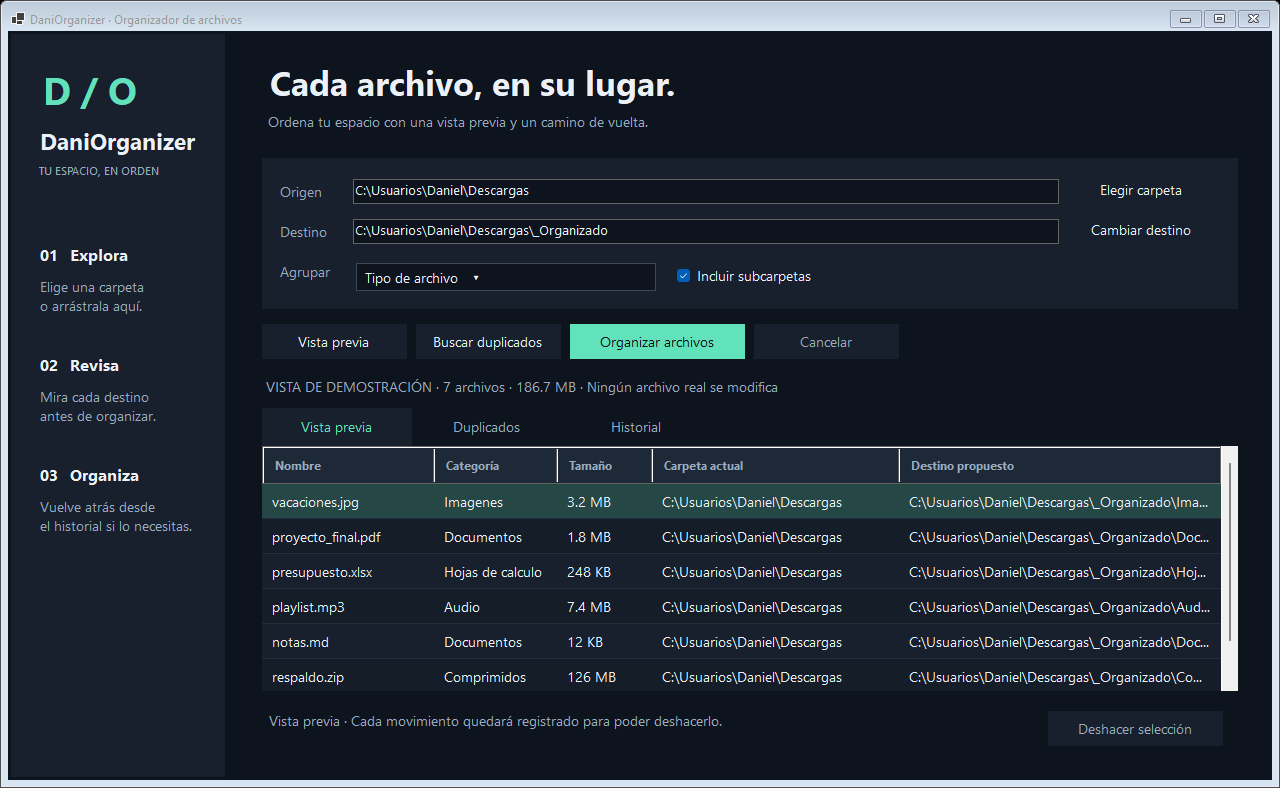
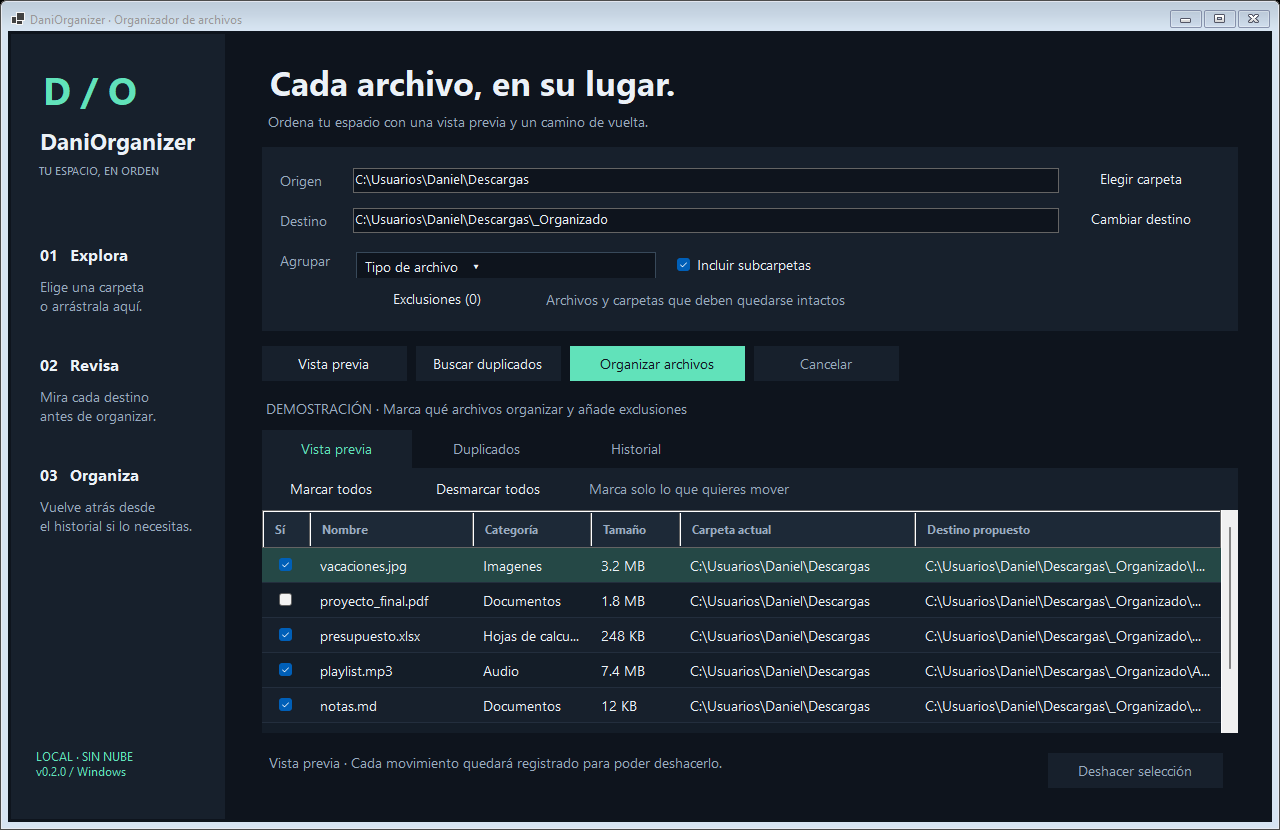
feat: choose files to organize and persist file and folder exclusions

diff --git a/Desktop/MainForm.cs b/Desktop/MainForm.cs
@@ -11,6 +11,10 @@ public sealed class MainForm : Form
     private readonly CheckBox recursive = new() { Text = "Incluir subcarpetas", AutoSize = true, Checked = true };
     private readonly Button previewButton = Button("Vista previa"), duplicateButton = Button("Buscar duplicados"), applyButton = Button("Organizar archivos", true), cancelButton = Button("Cancelar"), undoButton = Button("Deshacer selección");
     private readonly Button sourceButton = Button("Elegir carpeta"), destinationButton = Button("Cambiar destino");
+    private readonly Button exclusionsButton = Button("Exclusiones (0)"), selectAllButton = Button("Marcar todos"), clearSelectionButton = Button("Desmarcar todos");
+    private readonly List<string> excludedPaths = new();
+    private readonly string exclusionsFile;
+    private bool fillingPlan;
     private readonly Label status = new(), summary = new();
     private readonly DataGridView planGrid = Grid(), duplicateGrid = Grid(), historyGrid = Grid();
     private readonly WorkspaceTabs tabs = new();
@@ -27,6 +31,13 @@ public sealed class MainForm : Form
         this.demo = demo;
         this.testMode = testMode;
         this.journalDirectory = journalDirectory ?? Organizer.DefaultJournal;
+        exclusionsFile = Path.Combine(Path.GetDirectoryName(this.journalDirectory)!, "exclusions.json");
+        if (!demo)
+        {
+            try { excludedPaths.AddRange(ExclusionStore.Load(exclusionsFile)); }
+            catch (Exception ex) when (ex is IOException or UnauthorizedAccessException or System.Text.Json.JsonException)
+            { MessageBox.Show("No se pudieron cargar las exclusiones. Revísalas antes de organizar.\n" + ex.Message, "DaniOrganizer"); }
+        }
         Text = "DaniOrganizer · Organizador de archivos";
         Size = new(1280, 830); MinimumSize = new(1080, 720); StartPosition = FormStartPosition.CenterScreen;
         BackColor = Background; ForeColor = Ink; Font = new("Segoe UI", 10); AutoScaleMode = AutoScaleMode.Dpi;
@@ -35,7 +46,7 @@ public sealed class MainForm : Form
         layout.Controls.Add(Sidebar(), 0, 0);
         var main = new TableLayoutPanel { Dock = DockStyle.Fill, Padding = new(28, 22, 28, 18), ColumnCount = 1, RowCount = 6 };
         main.ColumnStyles.Add(new(SizeType.Percent, 100));
-        foreach (int height in new[] { 99, 157, 55, 38 }) main.RowStyles.Add(new(SizeType.Absolute, height));
+        foreach (int height in new[] { 88, 190, 55, 38 }) main.RowStyles.Add(new(SizeType.Absolute, height));
         main.RowStyles.Add(new(SizeType.Percent, 100)); main.RowStyles.Add(new(SizeType.Absolute, 65)); layout.Controls.Add(main, 1, 0);
         var heading = new Panel { Dock = DockStyle.Fill };
         heading.Controls.Add(Label("Cada archivo, en su lugar.", 25, Ink, new(0, 0), true));
@@ -47,21 +58,33 @@ public sealed class MainForm : Form
         summary.Dock = DockStyle.Fill; summary.TextAlign = ContentAlignment.MiddleLeft; summary.ForeColor = Muted;
         summary.Text = "Elige una carpeta para empezar. La vista previa no mueve archivos."; main.Controls.Add(summary, 0, 3);
         ConfigureGrid(planGrid, ("Nombre", 160), ("Categoría", 115), ("Tamaño", 88), ("Carpeta actual", 230), ("Destino propuesto", 300));
+        foreach (DataGridViewColumn column in planGrid.Columns) column.ReadOnly = true;
+        planGrid.ReadOnly = false;
+        planGrid.Columns.Insert(0, new DataGridViewCheckBoxColumn { Name = "Include", HeaderText = "Sí", Width = 48, MinimumWidth = 48, AutoSizeMode = DataGridViewAutoSizeColumnMode.None, ReadOnly = false, SortMode = DataGridViewColumnSortMode.NotSortable });
+        planGrid.CurrentCellDirtyStateChanged += (_, _) => { if (planGrid.IsCurrentCellDirty) planGrid.CommitEdit(DataGridViewDataErrorContexts.Commit); };
+        planGrid.CellValueChanged += (_, e) => { if (e.ColumnIndex == 0 && !fillingPlan) UpdateSelection(); };
         ConfigureGrid(duplicateGrid, ("Grupo", 65), ("Archivo", 180), ("Tamaño", 100), ("Ubicación", 500));
         ConfigureGrid(historyGrid, ("Fecha", 160), ("Movimientos pendientes de deshacer", 210), ("Estado", 210));
         tabs.Dock = DockStyle.Fill;
-        AddTab("Vista previa", planGrid); AddTab("Duplicados", duplicateGrid); AddTab("Historial", historyGrid); main.Controls.Add(tabs, 0, 4);
+        var planPage = new Panel { Dock = DockStyle.Fill };
+        var selectionBar = new FlowLayoutPanel { Dock = DockStyle.Top, Height = 42, Padding = new(0, 3, 0, 0) };
+        selectAllButton.Width = 140; clearSelectionButton.Width = 155;
+        selectionBar.Controls.AddRange(new Control[] { selectAllButton, clearSelectionButton, new Label { Text = "Marca solo lo que quieres mover", AutoSize = true, ForeColor = Muted, Margin = new(10, 8, 0, 0) } });
+        planPage.Controls.Add(planGrid); planPage.Controls.Add(selectionBar);
+        AddTab("Vista previa", planPage); AddTab("Duplicados", duplicateGrid); AddTab("Historial", historyGrid); main.Controls.Add(tabs, 0, 4);
         var footer = new TableLayoutPanel { Dock = DockStyle.Fill, ColumnCount = 2, RowCount = 1, Padding = new(0, 14, 0, 0) };
         footer.ColumnStyles.Add(new(SizeType.Percent, 100)); footer.ColumnStyles.Add(new(SizeType.Absolute, 190));
         status.Dock = DockStyle.Fill; status.ForeColor = Muted; status.Text = "Listo · Todo se procesa en tu equipo.";
         footer.Controls.Add(status, 0, 0); footer.Controls.Add(undoButton, 1, 0); main.Controls.Add(footer, 0, 5);
         sourceButton.Click += (_, _) => PickSource(); destinationButton.Click += (_, _) => PickDestination();
+        exclusionsButton.Click += (_, _) => EditExclusions();
+        selectAllButton.Click += (_, _) => SetSelection(true); clearSelectionButton.Click += (_, _) => SetSelection(false);
         source.TextChanged += (_, _) => InvalidatePlan(); destination.TextChanged += (_, _) => InvalidatePlan();
         grouping.SelectedIndexChanged += (_, _) => InvalidatePlan(); recursive.CheckedChanged += (_, _) => InvalidatePlan();
         previewButton.Click += async (_, _) => await Preview(); duplicateButton.Click += async (_, _) => await FindDuplicates();
         applyButton.Click += async (_, _) => await Apply(); undoButton.Click += async (_, _) => await Undo();
         cancelButton.Click += (_, _) => { cancellation?.Cancel(); status.Text = "Cancelando… se conservará el registro de movimientos completados."; };
-        planGrid.CellDoubleClick += (_, e) => { if (e.RowIndex >= 0 && plan != null) Reveal(plan.Moves[e.RowIndex].Source); };
+        planGrid.CellDoubleClick += (_, e) => { if (e.RowIndex >= 0 && e.ColumnIndex != 0 && planGrid.Rows[e.RowIndex].Tag is PlannedMove move) Reveal(move.Source); };
         duplicateGrid.CellDoubleClick += (_, e) => { if (e.RowIndex >= 0 && duplicateGrid.Rows[e.RowIndex].Tag is string path) Reveal(path); };
         historyGrid.SelectionChanged += (_, _) => UpdateButtons();
         AllowDrop = true; DragEnter += (_, e) => { if (!busy && e.Data?.GetData(DataFormats.FileDrop) is string[] paths && paths.Length == 1 && Directory.Exists(paths[0])) e.Effect = DragDropEffects.Copy; };
@@ -83,14 +106,14 @@ public sealed class MainForm : Form
         side.Controls.Add(Label("Mira cada destino\nantes de organizar.", 10, Muted, new(25, 353)));
         side.Controls.Add(Label("03   Organiza", 12, Ink, new(25, 430), true));
         side.Controls.Add(Label("Vuelve atrás desde\nel historial si lo necesitas.", 10, Muted, new(25, 463)));
-        var badge = Label("LOCAL · SIN NUBE\nv0.1.0 / Windows", 9, Accent, new(25, 650)); badge.Anchor = AnchorStyles.Bottom | AnchorStyles.Left; side.Controls.Add(badge);
+        var badge = Label("LOCAL · SIN NUBE\nv0.2.0 / Windows", 9, Accent, new(25, 650)); badge.AutoSize = false; badge.Height = 48; badge.Dock = DockStyle.Bottom; side.Controls.Add(badge);
         return side;
     }
     private Control FolderCard()
     {
-        var card = new TableLayoutPanel { Dock = DockStyle.Fill, BackColor = Surface, Padding = new(14), ColumnCount = 3, RowCount = 3 };
+        var card = new TableLayoutPanel { Dock = DockStyle.Fill, BackColor = Surface, Padding = new(14), ColumnCount = 3, RowCount = 4 };
         card.ColumnStyles.Add(new(SizeType.Absolute, 74)); card.ColumnStyles.Add(new(SizeType.Percent, 100)); card.ColumnStyles.Add(new(SizeType.Absolute, 155));
-        card.RowStyles.Add(new(SizeType.Absolute, 40)); card.RowStyles.Add(new(SizeType.Absolute, 40)); card.RowStyles.Add(new(SizeType.Percent, 100));
+        card.RowStyles.Add(new(SizeType.Absolute, 40)); card.RowStyles.Add(new(SizeType.Absolute, 40)); card.RowStyles.Add(new(SizeType.Absolute, 40)); card.RowStyles.Add(new(SizeType.Percent, 100));
         foreach (var box in new[] { source, destination }) { box.Dock = DockStyle.Fill; box.BackColor = Background; box.ForeColor = Ink; box.BorderStyle = BorderStyle.FixedSingle; box.Margin = new(3, 7, 10, 3); }
         source.PlaceholderText = "Selecciona o arrastra una carpeta…"; destination.PlaceholderText = "Se propone _Organizado dentro del origen";
         card.Controls.Add(new Label { Text = "Origen", AutoSize = true, Margin = new(0, 10, 0, 0), ForeColor = Muted }, 0, 0); card.Controls.Add(source, 1, 0); card.Controls.Add(sourceButton, 2, 0);
@@ -99,6 +122,10 @@ public sealed class MainForm : Form
         var choices = new FlowLayoutPanel { Dock = DockStyle.Fill, WrapContents = false, Padding = new(0, 5, 0, 0) };
         grouping.Width = 300; grouping.Height = 28;
         recursive.Margin = new(18, 5, 0, 0); choices.Controls.AddRange(new Control[] { grouping, recursive }); card.Controls.Add(choices, 1, 2); card.SetColumnSpan(choices, 2);
+        exclusionsButton.Width = 170; exclusionsButton.Height = 30; exclusionsButton.Text = $"Exclusiones ({excludedPaths.Count})";
+        var exclusionsRow = new FlowLayoutPanel { Dock = DockStyle.Fill, WrapContents = false };
+        exclusionsRow.Controls.Add(exclusionsButton); exclusionsRow.Controls.Add(new Label { Text = "Archivos y carpetas que deben quedarse intactos", AutoSize = true, ForeColor = Muted, Margin = new(10, 6, 0, 0) });
+        card.Controls.Add(exclusionsRow, 1, 3); card.SetColumnSpan(exclusionsRow, 2);
         return card;
     }
     private static Label Label(string text, float size, Color color, Point location, bool bold = false) => new() { Text = text, AutoSize = true, Location = location, ForeColor = color, Font = new("Segoe UI", size, bold ? FontStyle.Bold : FontStyle.Regular) };
@@ -127,13 +154,42 @@ public sealed class MainForm : Form
     private Options ReadOptions()
     {
         if (string.IsNullOrWhiteSpace(source.Text) || string.IsNullOrWhiteSpace(destination.Text)) throw new ArgumentException("Selecciona el origen y el destino.");
-        return new(source.Text.Trim(), destination.Text.Trim(), (Grouping)grouping.SelectedIndex, recursive.Checked);
+        return new(source.Text.Trim(), destination.Text.Trim(), (Grouping)grouping.SelectedIndex, recursive.Checked, excludedPaths.ToArray());
     }
-    private void InvalidatePlan() { plan = null; planGrid.Rows.Clear(); duplicateGrid.Rows.Clear(); summary.Text = "Genera una vista previa para revisar cada movimiento."; UpdateButtons(); }
+    private void EditExclusions()
+    {
+        using var dialog = new ExclusionDialog(excludedPaths);
+        if (dialog.ShowDialog(this) != DialogResult.OK) return;
+        try { SaveExclusions(dialog.ExcludedPaths); }
+        catch (Exception ex) when (ex is IOException or UnauthorizedAccessException) { MessageBox.Show(this, "No se pudieron guardar las exclusiones. No se cambiaron las reglas.\n" + ex.Message, "DaniOrganizer"); }
+    }
+    private void SaveExclusions(IEnumerable<string> paths)
+    {
+        var changed = paths.ToArray(); ExclusionStore.Save(exclusionsFile, changed);
+        excludedPaths.Clear(); excludedPaths.AddRange(changed); exclusionsButton.Text = $"Exclusiones ({excludedPaths.Count})";
+        InvalidatePlan(); status.Text = "Exclusiones guardadas. Genera una nueva vista previa.";
+    }
+    private IEnumerable<PlannedMove> CheckedMoves() => planGrid.Rows.Cast<DataGridViewRow>()
+        .Where(row => row.Cells[0].Value is true && row.Tag is PlannedMove).Select(row => (PlannedMove)row.Tag!);
+    private void SetSelection(bool selected)
+    {
+        fillingPlan = true;
+        foreach (DataGridViewRow row in planGrid.Rows) row.Cells[0].Value = selected;
+        fillingPlan = false; UpdateSelection();
+    }
+    private void UpdateSelection()
+    {
+        if (demo || plan == null) return;
+        var selected = CheckedMoves().ToArray();
+        summary.Text = $"{selected.Length:N0} de {plan.Moves.Count:N0} seleccionados · {SizeText(selected.Sum(move => move.Length))} · {plan.Warnings.Count} avisos";
+        applyButton.Text = $"Organizar ({selected.Length:N0})"; UpdateButtons();
+    }
+    private void InvalidatePlan() { plan = null; planGrid.Rows.Clear(); duplicateGrid.Rows.Clear(); applyButton.Text = "Organizar archivos"; summary.Text = "Genera una vista previa para revisar cada movimiento."; UpdateButtons(); }
     private void UpdateButtons()
     {
-        foreach (var control in new Control[] { source, destination, grouping, recursive, sourceButton, destinationButton, previewButton, duplicateButton }) control.Enabled = !busy;
-        applyButton.Enabled = !busy && (demo || plan?.Moves.Count > 0); cancelButton.Enabled = busy;
+        foreach (var control in new Control[] { source, destination, grouping, recursive, sourceButton, destinationButton, previewButton, duplicateButton, exclusionsButton }) control.Enabled = !busy;
+        selectAllButton.Enabled = clearSelectionButton.Enabled = !busy && (demo || plan?.Moves.Count > 0); planGrid.Enabled = !busy;
+        applyButton.Enabled = !busy && (demo || plan != null && CheckedMoves().Any()); cancelButton.Enabled = busy;
         undoButton.Enabled = !busy && !demo && historyGrid.SelectedRows.Count > 0 && historyGrid.SelectedRows[0].Tag is Operation op && op.Entries.Any(entry => entry.State != "Undone");
     }
     private async Task Work(string message, Func<CancellationToken, Task> action)
@@ -149,8 +205,9 @@ public sealed class MainForm : Form
         await Work("Analizando archivos…", async token =>
         {
             var options = ReadOptions(); plan = await Task.Run(() => Organizer.Preview(options, token), token);
-            planGrid.Rows.Clear(); foreach (var move in plan.Moves) planGrid.Rows.Add(Path.GetFileName(move.Source), Organizer.Category(Path.GetExtension(move.Source)), SizeText(move.Length), Path.GetDirectoryName(move.Source), move.Destination);
-            summary.Text = $"{plan.Moves.Count:N0} archivos · {SizeText(plan.Moves.Sum(move => move.Length))} · {plan.Warnings.Count} avisos";
+            fillingPlan = true; planGrid.Rows.Clear();
+            foreach (var move in plan.Moves) { int row = planGrid.Rows.Add(true, Path.GetFileName(move.Source), Organizer.Category(Path.GetExtension(move.Source)), SizeText(move.Length), Path.GetDirectoryName(move.Source), move.Destination); planGrid.Rows[row].Tag = move; }
+            fillingPlan = false; UpdateSelection();
             status.Text = "Vista previa lista. Revisa los destinos antes de organizar."; tabs.SelectedIndex = 0; ShowWarnings(plan.Warnings);
         });
     }
@@ -169,7 +226,9 @@ public sealed class MainForm : Form
     private async Task Apply(bool confirm = true)
     {
         if (plan == null) return;
-        var selectedPlan = plan;
+        planGrid.EndEdit();
+        var selectedPlan = Organizer.Select(plan, CheckedMoves().Select(move => move.Source));
+        if (selectedPlan.Moves.Count == 0) return;
         if (confirm && MessageBox.Show(this, $"Se moverán {selectedPlan.Moves.Count:N0} archivos al destino mostrado.\n\nPuedes deshacer desde el historial. ¿Organizar ahora?", "Aplicar vista previa", MessageBoxButtons.YesNo, MessageBoxIcon.Question) != DialogResult.Yes) return;
         await Work("Organizando…", async token =>
         {
@@ -208,8 +267,8 @@ public sealed class MainForm : Form
     {
         source.Text = @"C:\Usuarios\Daniel\Descargas"; destination.Text = @"C:\Usuarios\Daniel\Descargas\_Organizado";
         foreach (var item in new[] { ("vacaciones.jpg", "Imagenes", "3.2 MB"), ("proyecto_final.pdf", "Documentos", "1.8 MB"), ("presupuesto.xlsx", "Hojas de calculo", "248 KB"), ("playlist.mp3", "Audio", "7.4 MB"), ("notas.md", "Documentos", "12 KB"), ("respaldo.zip", "Comprimidos", "126 MB"), ("demo.mp4", "Videos", "48 MB") })
-            planGrid.Rows.Add(item.Item1, item.Item2, item.Item3, source.Text, Path.Combine(destination.Text, item.Item2, item.Item1));
-        summary.Text = "VISTA DE DEMOSTRACIÓN · 7 archivos · 186.7 MB · Ningún archivo real se modifica";
+            planGrid.Rows.Add(item.Item1 is not ("respaldo.zip" or "proyecto_final.pdf"), item.Item1, item.Item2, item.Item3, source.Text, Path.Combine(destination.Text, item.Item2, item.Item1));
+        summary.Text = "DEMOSTRACIÓN · Marca qué archivos organizar y añade exclusiones";
         status.Text = "Vista previa · Cada movimiento quedará registrado para poder deshacerlo.";
     }
     internal async Task Smoke(string directory)
@@ -226,6 +285,23 @@ public sealed class MainForm : Form
         if (File.Exists(Path.Combine(directory, "a.txt")) || historyGrid.Rows.Count != 1 || !undoButton.Enabled) throw new Exception("La organización no actualiza el historial.");
         await Undo(confirm: false);
         if (File.ReadAllText(Path.Combine(directory, "a.txt")) != "same" || File.ReadAllText(Path.Combine(directory, "b.txt")) != "same") throw new Exception("La interfaz no deshace correctamente.");
+        string protectedFolder = Path.Combine(directory, "Privado"); Directory.CreateDirectory(protectedFolder);
+        File.WriteAllText(Path.Combine(protectedFolder, "secreto.txt"), "intacto");
+        SaveExclusions(new[] { Path.Combine(directory, "b.txt"), protectedFolder });
+        if (plan != null || applyButton.Enabled) throw new Exception("Las exclusiones no invalidan el plan.");
+        using (var reopened = new MainForm(testMode: true, journalDirectory: journalDirectory))
+            if (reopened.excludedPaths.Count != 2) throw new Exception("Las exclusiones no se conservan al reiniciar.");
+        await Preview(); if (planGrid.Rows.Count != 2) throw new Exception("Aparecen archivos excluidos en la vista previa.");
+        await FindDuplicates(); if (duplicateGrid.Rows.Count != 0) throw new Exception("Se analizaron duplicados excluidos.");
+        SetSelection(false); if (applyButton.Enabled) throw new Exception("Se puede organizar sin seleccionar archivos.");
+        foreach (DataGridViewRow row in planGrid.Rows) if (row.Tag is PlannedMove move && Path.GetFileName(move.Source) == "a.txt") row.Cells[0].Value = true;
+        if (CheckedMoves().Count() != 1 || !applyButton.Enabled) throw new Exception("Las casillas no actualizan la selección.");
+        File.WriteAllText(Path.Combine(directory, "foto.png"), "cambio sin seleccionar");
+        await Apply(confirm: false);
+        if (File.Exists(Path.Combine(directory, "a.txt")) || File.ReadAllText(Path.Combine(directory, "b.txt")) != "same" || File.ReadAllText(Path.Combine(directory, "foto.png")) != "cambio sin seleccionar" || File.ReadAllText(Path.Combine(protectedFolder, "secreto.txt")) != "intacto")
+            throw new Exception("La organización selectiva modificó archivos desmarcados o excluidos.");
+        await Undo(confirm: false);
+        if (File.ReadAllText(Path.Combine(directory, "a.txt")) != "same") throw new Exception("No se pudo deshacer la selección.");
     }
 }
 

diff --git a/Desktop/ExclusionDialog.cs b/Desktop/ExclusionDialog.cs
@@ -1,0 +1,27 @@
+namespace DaniOrganizer;
+
+internal sealed class ExclusionDialog : Form
+{
+    private readonly ListBox paths = new() { Dock = DockStyle.Fill, SelectionMode = SelectionMode.MultiExtended, HorizontalScrollbar = true, BackColor = Color.FromArgb(23, 32, 44), ForeColor = Color.WhiteSmoke, BorderStyle = BorderStyle.None };
+    public IReadOnlyList<string> ExcludedPaths => paths.Items.Cast<string>().ToArray();
+    public ExclusionDialog(IEnumerable<string> existing)
+    {
+        Text = "Archivos y carpetas que NO se organizarán"; Size = new(850, 490); MinimumSize = new(700, 400); StartPosition = FormStartPosition.CenterParent;
+        BackColor = Color.FromArgb(14, 20, 29); ForeColor = Color.WhiteSmoke; Font = new("Segoe UI", 10);
+        var layout = new TableLayoutPanel { Dock = DockStyle.Fill, Padding = new(18), ColumnCount = 1, RowCount = 4 };
+        layout.RowStyles.Add(new(SizeType.Absolute, 55)); layout.RowStyles.Add(new(SizeType.Absolute, 45)); layout.RowStyles.Add(new(SizeType.Percent, 100)); layout.RowStyles.Add(new(SizeType.Absolute, 52)); Controls.Add(layout);
+        layout.Controls.Add(new Label { Text = "Añade archivos o carpetas que quieras dejar intactos.\nExcluir una carpeta también excluye todos sus archivos y subcarpetas.", Dock = DockStyle.Fill }, 0, 0);
+        var toolbar = new FlowLayoutPanel { Dock = DockStyle.Fill, WrapContents = false };
+        var files = MakeButton("Añadir archivos…"); var folder = MakeButton("Añadir carpeta…"); var remove = MakeButton("Quitar de la lista");
+        toolbar.Controls.AddRange(new Control[] { files, folder, remove }); layout.Controls.Add(toolbar, 0, 1); layout.Controls.Add(paths, 0, 2);
+        var footer = new FlowLayoutPanel { Dock = DockStyle.Fill, FlowDirection = FlowDirection.RightToLeft, Padding = new(0, 12, 0, 0) };
+        var save = MakeButton("Guardar exclusiones"); var cancel = MakeButton("Cancelar"); save.DialogResult = DialogResult.OK; cancel.DialogResult = DialogResult.Cancel;
+        footer.Controls.AddRange(new Control[] { save, cancel }); layout.Controls.Add(footer, 0, 3); AcceptButton = save; CancelButton = cancel;
+        foreach (string path in existing) Add(path);
+        files.Click += (_, _) => { using var picker = new OpenFileDialog { Multiselect = true, Title = "Elige los archivos que no quieres organizar", Filter = "Todos los archivos|*.*" }; if (picker.ShowDialog(this) == DialogResult.OK) foreach (string path in picker.FileNames) Add(path); };
+        folder.Click += (_, _) => { using var picker = new FolderBrowserDialog { Description = "Elige una carpeta que no quieres organizar", UseDescriptionForTitle = true }; if (picker.ShowDialog(this) == DialogResult.OK) Add(picker.SelectedPath); };
+        remove.Click += (_, _) => { foreach (var item in paths.SelectedItems.Cast<string>().ToArray()) paths.Items.Remove(item); };
+    }
+    private void Add(string path) { path = Path.GetFullPath(path); if (!paths.Items.Cast<string>().Contains(path, StringComparer.OrdinalIgnoreCase)) paths.Items.Add(path); }
+    private static Button MakeButton(string text) { var button = new Button { Text = text, Width = 175, Height = 32, FlatStyle = FlatStyle.Flat, BackColor = Color.FromArgb(29, 41, 55), ForeColor = Color.WhiteSmoke }; button.FlatAppearance.BorderSize = 0; return button; }
+}

diff --git a/Core/Organizer.cs b/Core/Organizer.cs
@@ -4,7 +4,7 @@ using System.Text.Json;
 namespace DaniOrganizer.Core;
 
 public enum Grouping { Type, Date, TypeAndDate }
-public record Options(string Source, string Destination, Grouping Grouping, bool Recursive);
+public record Options(string Source, string Destination, Grouping Grouping, bool Recursive, IReadOnlyList<string>? ExcludedPaths = null);
 public record PlannedMove(string Source, string Destination, long Length, DateTime ModifiedUtc);
 public record Plan(Options Options, IReadOnlyList<PlannedMove> Moves, IReadOnlyList<string> Warnings);
 public record DuplicateSet(string Hash, long Length, IReadOnlyList<string> Files);
@@ -30,6 +30,14 @@ public static class Organizer
     public static bool Within(string path, string directory) =>
         Path.GetFullPath(path).StartsWith(Path.TrimEndingDirectorySeparator(Path.GetFullPath(directory)) + Path.DirectorySeparatorChar, StringComparison.OrdinalIgnoreCase);
     private static bool Same(string a, string b) => string.Equals(Path.TrimEndingDirectorySeparator(Path.GetFullPath(a)), Path.TrimEndingDirectorySeparator(Path.GetFullPath(b)), StringComparison.OrdinalIgnoreCase);
+
+    public static Plan Select(Plan plan, IEnumerable<string> sources)
+    {
+        var selected = sources.Select(Path.GetFullPath).ToHashSet(StringComparer.OrdinalIgnoreCase);
+        if (selected.Except(plan.Moves.Select(move => move.Source), StringComparer.OrdinalIgnoreCase).Any())
+            throw new ArgumentException("La selección contiene archivos que no están en la vista previa.");
+        return plan with { Moves = plan.Moves.Where(move => selected.Contains(move.Source)).ToArray() };
+    }
 
     public static Plan Preview(Options options, CancellationToken token = default)
     {
@@ -76,16 +84,20 @@ public static class Organizer
 
     private static IEnumerable<string> Enumerate(Options options, List<string> warnings, CancellationToken token)
     {
+        var excluded = (options.ExcludedPaths ?? Array.Empty<string>()).Select(path => Path.GetFullPath(path, Path.GetFullPath(options.Source))).ToArray();
+        bool IsExcluded(string path) => excluded.Any(item => Same(path, item) || Within(path, item));
         var pending = new Stack<string>(); pending.Push(Path.GetFullPath(options.Source));
         while (pending.Count > 0)
         {
             token.ThrowIfCancellationRequested(); string directory = pending.Pop();
+            if (IsExcluded(directory)) continue;
             string[] entries;
             try { entries = Directory.GetFileSystemEntries(directory); }
             catch (Exception ex) when (ex is IOException or UnauthorizedAccessException) { warnings.Add(directory + ": " + ex.Message); continue; }
             foreach (var path in entries)
             {
                 token.ThrowIfCancellationRequested();
+                if (IsExcluded(path)) continue;
                 FileAttributes attributes;
                 try { attributes = File.GetAttributes(path); }
                 catch (Exception ex) when (ex is IOException or UnauthorizedAccessException) { warnings.Add(path + ": " + ex.Message); continue; }

diff --git a/Tests/Program.cs b/Tests/Program.cs
@@ -122,6 +122,35 @@ try
         Write(path, "invalid.json", "{\"Id\":\"" + Guid.NewGuid().ToString("N") + "\",\"Entries\":null}");
         Check(Organizer.History(path).Count == 0, "Invalid structured history was accepted");
     });
+    Test("only selected files are validated, moved and recorded for undo", path =>
+    {
+        string a = Write(path, "a.txt", "a"), b = Write(path, "b.txt", "b"); var plan = Organizer.Preview(Opt(path));
+        var selected = Organizer.Select(plan, new[] { a }); File.WriteAllText(b, "unselected changed");
+        string journal = Path.Combine(scratch, "journal-selected"); var op = Organizer.Apply(selected, journal);
+        Check(!File.Exists(a) && File.ReadAllText(b) == "unselected changed" && op.Entries.Count == 1, "Unselected file affected");
+        Organizer.Undo(op, journal); Check(File.ReadAllText(a) == "a" && File.ReadAllText(b) == "unselected changed", "Undo affected unselected file");
+    });
+    Test("selection rejects unplanned files and supports an empty selection", path =>
+    {
+        Write(path, "a.txt", "a"); var plan = Organizer.Preview(Opt(path));
+        Throws<ArgumentException>(() => Organizer.Select(plan, new[] { Path.Combine(path, "unknown.txt") }));
+        Check(Organizer.Select(plan, Array.Empty<string>()).Moves.Count == 0, "Empty selection changed plan");
+    });
+    Test("file and recursive folder exclusions keep similarly named siblings", path =>
+    {
+        string excluded = Write(path, "keep.txt", "same"); Write(path, "Privado/nested/a.txt", "same"); string sibling = Write(path, "Privado2/b.txt", "same");
+        var options = Opt(path) with { ExcludedPaths = new[] { excluded, Path.Combine(path, "Privado") } };
+        var plan = Organizer.Preview(options); Check(plan.Moves.Count == 1 && plan.Moves[0].Source == Path.GetFullPath(sibling), "Exclusion boundary failed");
+        Check(Organizer.Duplicates(options, new()).Count == 0, "Excluded files entered duplicate scan");
+        Check(Organizer.Preview(options with { ExcludedPaths = new[] { path } }).Moves.Count == 0, "Excluded root was scanned");
+    });
+    Test("exclusions persist and can be removed", path =>
+    {
+        string file = Path.Combine(path, "settings", "exclusions.json"), excluded = Path.Combine(path, "Privado");
+        ExclusionStore.Save(file, new[] { excluded, excluded.ToUpperInvariant() });
+        Check(ExclusionStore.Load(file).Count == 1, "Exclusions not restored or deduplicated");
+        ExclusionStore.Save(file, Array.Empty<string>()); Check(ExclusionStore.Load(file).Count == 0, "Exclusions cannot be removed");
+    });
     Console.WriteLine($"{passed} tests passed."); return 0;
 }
 finally { Directory.Delete(scratch, recursive: true); }

diff --git a/Core/ExclusionStore.cs b/Core/ExclusionStore.cs
@@ -1,0 +1,22 @@
+using System.Text.Json;
+
+namespace DaniOrganizer.Core;
+
+public static class ExclusionStore
+{
+    public static IReadOnlyList<string> Load(string path)
+    {
+        if (!File.Exists(path)) return Array.Empty<string>();
+        var paths = JsonSerializer.Deserialize<string[]>(File.ReadAllText(path)) ?? Array.Empty<string>();
+        return paths.Where(item => !string.IsNullOrWhiteSpace(item) && Path.IsPathFullyQualified(item))
+            .Select(Path.GetFullPath).Distinct(StringComparer.OrdinalIgnoreCase).ToArray();
+    }
+    public static void Save(string path, IEnumerable<string> paths)
+    {
+        var normalized = paths.Select(Path.GetFullPath).Distinct(StringComparer.OrdinalIgnoreCase).ToArray();
+        Directory.CreateDirectory(Path.GetDirectoryName(Path.GetFullPath(path))!);
+        string temporary = path + ".tmp";
+        File.WriteAllText(temporary, JsonSerializer.Serialize(normalized, new JsonSerializerOptions { WriteIndented = true }));
+        File.Move(temporary, path, overwrite: true);
+    }
+}

diff --git a/README.md b/README.md
@@ -6,10 +6,12 @@
 
 ![Vista de demostración de DaniOrganizer](docs/preview.png)
 
-## Qué hace la versión 0.1.0
+## Qué hace la versión 0.2.0
 
 - Organiza por **tipo**, **mes de modificación** o **tipo y mes**.
 - Muestra origen, destino y tamaño de cada archivo antes de moverlo.
+- Permite marcar individualmente qué archivos organizar, con **Marcar todos** y **Desmarcar todos**.
+- Guarda exclusiones de archivos y carpetas completas, también para la búsqueda de duplicados.
 - Busca duplicados por tamaño y **SHA-256 del contenido**, aunque sus nombres sean distintos. Esta versión solo los muestra; no los elimina.
 - Evita sobrescribir archivos: propone nombres con sufijos cuando coinciden.
 - Guarda un historial persistente y permite deshacer una operación después de reiniciar la aplicación.
@@ -21,14 +23,18 @@
 2. Abre `DaniOrganizer.exe`. El paquete incluye .NET; no necesitas instalarlo.
 3. Elige el origen. El destino propuesto es `_Organizado` dentro de esa carpeta; también puedes elegir otra carpeta separada.
 4. Elige la agrupación y si quieres incluir subcarpetas.
-5. Pulsa **Vista previa**, revisa los destinos y pulsa **Organizar archivos**.
-6. Para volver atrás, abre **Historial**, selecciona la operación y pulsa **Deshacer selección**.
+5. Si hay archivos o carpetas que quieras dejar intactos, pulsa **Exclusiones**, añádelos y guarda la lista.
+6. Pulsa **Vista previa**. En la columna **Sí**, desmarca lo que no quieras mover. Puedes usar **Desmarcar todos** y marcar solo los archivos deseados. El contador muestra cuántos se organizarán.
+7. Revisa los destinos y pulsa **Organizar (cantidad)**. Solo se moverán los archivos marcados.
+8. Para volver atrás, abre **Historial**, selecciona la operación y pulsa **Deshacer selección**.
+
+Las casillas se reinician al generar una nueva vista previa. Para omitir algo siempre, usa **Exclusiones**: puedes añadir varios archivos, una carpeta con todo su contenido, o quitar entradas de la lista. Las reglas se conservan al cerrar y abrir la aplicación. Cambiarlas invalida la vista previa y obliga a revisarla de nuevo. Se guardan como rutas completas en `%LOCALAPPDATA%\DaniOrganizer\exclusions.json`.
 
 **Buscar duplicados** no necesita aplicar la vista previa. Los duplicados se muestran en grupos; el espacio indicado corresponde a copias repetidas, no a espacio que se haya liberado.
 
 ## Cómo protege los archivos
 
-La vista previa no modifica archivos. Antes de organizar se comprueba que los archivos no hayan cambiado desde el análisis y que los destinos sigan libres. Cada movimiento se registra antes y después de ejecutarlo. Si una operación falla o se cancela, puede quedar parcialmente completada; el historial permite deshacer los movimientos registrados.
+La vista previa no modifica archivos. Antes de organizar se comprueba que los archivos seleccionados no hayan cambiado desde el análisis y que sus destinos sigan libres. Los archivos desmarcados y las rutas excluidas no se mueven. Cada movimiento se registra antes y después de ejecutarlo. Si una operación falla o se cancela, puede quedar parcialmente completada; el historial permite deshacer los movimientos registrados.
 
 Al deshacer, el contenido se verifica por SHA-256. Si el destino cambió o el origen está ocupado, se omite ese archivo y se informa del motivo. Una operación puede volver a intentarse desde el historial después de resolver los avisos. Las carpetas vacías creadas por la organización se conservan.
 
@@ -47,7 +53,7 @@ dotnet run --project Desktop/DaniOrganizer.csproj -c Release
 dotnet publish Desktop/DaniOrganizer.csproj -c Release -r win-x64 --self-contained true -o artifacts/portable
 ```
 
-Hay **19 pruebas** del motor: vista previa, colisiones, subcarpetas, fechas, movimientos, recuperación del registro, deshacer, cambios concurrentes, duplicados y cancelación. El ejecutable admite `--ui-smoke` para comprobar el recorrido de escritorio completo usando exclusivamente archivos temporales y un historial aislado. `--screenshot ruta.png` genera una vista de demostración sin modificar archivos reales.
+Hay **23 pruebas** del motor: vista previa, selección parcial, exclusiones, persistencia, colisiones, subcarpetas, fechas, movimientos, recuperación del registro, deshacer, cambios concurrentes, duplicados y cancelación. El ejecutable admite `--ui-smoke` para comprobar el recorrido de escritorio completo, incluidas casillas, exclusiones guardadas y organización selectiva, usando exclusivamente archivos temporales y un historial aislado. `--screenshot ruta.png` genera una vista de demostración sin modificar archivos reales.
 
 GitHub Actions compila, ejecuta las pruebas, publica el portable y comprueba el flujo de escritorio. Las etiquetas `v*` que coinciden con la versión del proyecto publican una Release con ZIP y SHA-256.
 

diff --git a/CHANGELOG.md b/CHANGELOG.md
@@ -1,3 +1,12 @@
+# DaniOrganizer 0.2.0
+
+- Casillas en la vista previa para elegir exactamente qué archivos mover.
+- Marcar todos, desmarcar todos y contador de selección antes de organizar.
+- Exclusiones de archivos y carpetas completas, guardadas entre sesiones.
+- Las exclusiones también se aplican al análisis de duplicados.
+- La validación y el historial incluyen únicamente los archivos seleccionados.
+- 23 pruebas del motor y comprobación de selección, exclusiones, persistencia y deshacer en el escritorio.
+
 # DaniOrganizer 0.1.0
 
 - Interfaz Windows en español, tema oscuro, selección y arrastre de carpetas.
